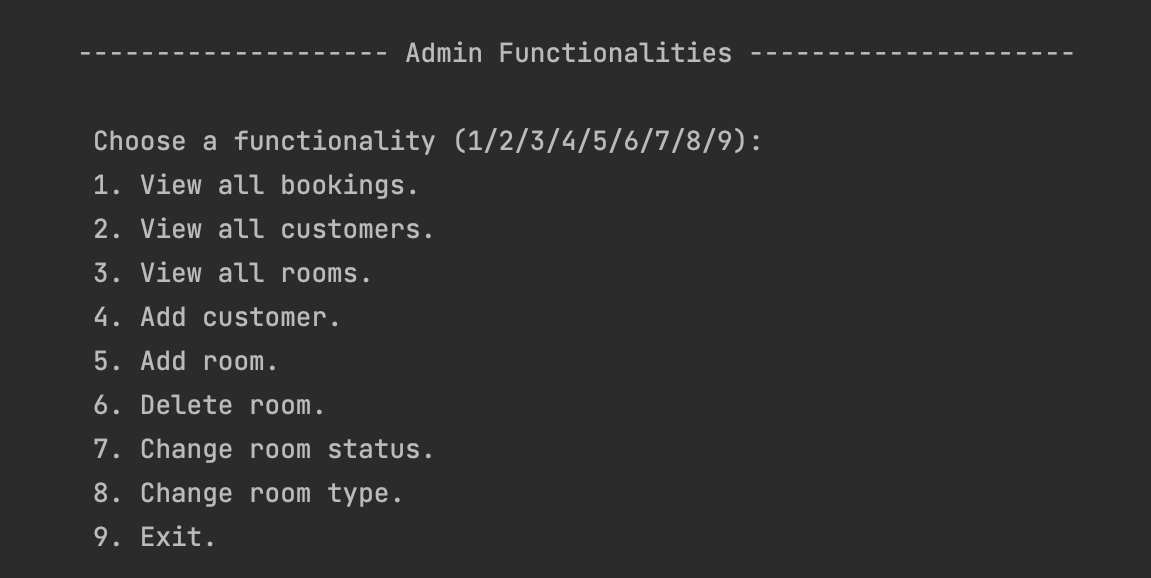
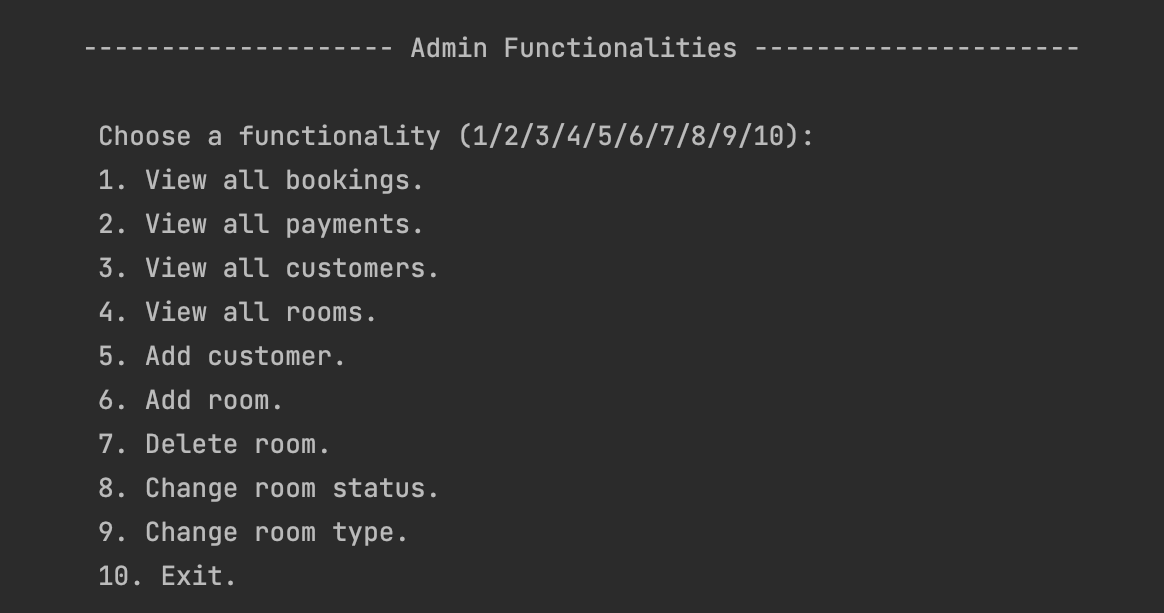
readme + toString  modificari

diff --git a/src/service/AdminService.java b/src/service/AdminService.java
@@ -46,18 +46,19 @@ public class AdminService implements ServiceInterface {
     @Override
     public void showFunctionalities(User user) {
         int option = 0;
-        while (option != 9){
+        while (option != 10){
             System.out.println("\n\t-------------------- Admin Functionalities ---------------------\n");
-            System.out.println("\t Choose a functionality (1/2/3/4/5/6/7/8/9):");
+            System.out.println("\t Choose a functionality (1/2/3/4/5/6/7/8/9/10):");
             System.out.println("\t 1. View all bookings.");
-            System.out.println("\t 2. View all customers.");
-            System.out.println("\t 3. View all rooms.");
-            System.out.println("\t 4. Add customer.");
-            System.out.println("\t 5. Add room.");
-            System.out.println("\t 6. Delete room.");
-            System.out.println("\t 7. Change room status.");
-            System.out.println("\t 8. Change room type.");
-            System.out.println("\t 9. Exit.\n");
+            System.out.println("\t 2. View all payments.");
+            System.out.println("\t 3. View all customers.");
+            System.out.println("\t 4. View all rooms.");
+            System.out.println("\t 5. Add customer.");
+            System.out.println("\t 6. Add room.");
+            System.out.println("\t 7. Delete room.");
+            System.out.println("\t 8. Change room status.");
+            System.out.println("\t 9. Change room type.");
+            System.out.println("\t 10. Exit.\n");
 
             Scanner scanner = new Scanner(System.in);
             option = scanner.nextInt();
@@ -67,24 +68,27 @@ public class AdminService implements ServiceInterface {
                     ((Admin) user).viewAllBookings();
                     break;
                 case (2):
-                    ((Admin) user).viewAllCustomers();
+                    ((Admin) user).viewAllPayments();
                     break;
                 case (3):
-                    ((Admin) user).viewAllRooms();
+                    ((Admin) user).viewAllCustomers();
                     break;
                 case (4):
-                    ((Admin) user).addCustomer();
+                    ((Admin) user).viewAllRooms();
                     break;
                 case (5):
-                    ((Admin) user).addRoom();
+                    ((Admin) user).addCustomer();
                     break;
                 case (6):
+                    ((Admin) user).addRoom();
+                    break;
+                case (7):
                     int roomNr;
                     System.out.println("\t Enter room number: ");
                     roomNr = scanner.nextInt();
                     ((Admin) user).deleteRoom(roomNr);
                     break;
-                case (7):
+                case (8):
                     System.out.println("\t Enter room number: ");
                     roomNr = scanner.nextInt();
                     int roomStatus;
@@ -98,7 +102,7 @@ public class AdminService implements ServiceInterface {
                         ((Admin) user).changeRoomStatus(roomNr, RoomStatus.AVAILABLE);
                     }
                     break;
-                case (8):
+                case (9):
                     System.out.println("\t Enter room number: ");
                     roomNr = scanner.nextInt();
                     int roomType;

diff --git a/src/entity/user/Customer.java b/src/entity/user/Customer.java
@@ -21,8 +21,8 @@ public class Customer extends User  {
     private UserDocument userDocument;
     private String address;
     private String telephone;
-    Set<Booking> bookingSet;
-    Set<Payment> paymentSet;
+    private Set<Booking> bookingSet;
+    private Set<Payment> paymentSet;
 
     public Customer(String firstName, String lastName, UserDocument userDocument, String address, String telephone, String username, String password, String email) {
         super(count, firstName, lastName, username, password, email);
@@ -289,7 +289,7 @@ public class Customer extends User  {
 
     @Override
     public String toString() {
-        StringBuilder customer = new StringBuilder("\n\t ==> Customer " +
+        StringBuilder customer = new StringBuilder("\n\n\t ==> Customer " +
                 this.getId() + ": " + this.getFullName() + '\n' +
                 "\t\tuserDocument: " + userDocument + '\n' +
                 "\t\taddress: " + address + '\n' +
@@ -300,16 +300,16 @@ public class Customer extends User  {
 
 
         if (!bookingSet.isEmpty()) {
-            customer.append("\t\tBookingSet: ");
+            customer.append("\t\tBookings: ");
             for (Booking booking : bookingSet) {
-                customer.append("\n\t\t\t=> ").append(booking);
+                customer.append(booking).append("\n");
             }
         } else{
             customer.append("\t\tBookings: []\n");
         }
 
         if (!paymentSet.isEmpty()) {
-            customer.append("\n\t\tPaymentSet: ");
+            customer.append("\n\t\tPayments: ");
             for (Payment payment : paymentSet) {
                 customer.append("\n\t\t\t=> ").append(payment);
             }

diff --git a/src/Main.java b/src/Main.java
@@ -71,8 +71,8 @@ public class Main {
         payment1.setPaymentMethod(PaymentMethod.CARD);
         payment1.setPaymentStatus(PaymentStatus.PAID);
         payment1.setTime(LocalDateTime.now());
-        Customer customerX = booking1.getCustomer();
-        customerX.getPaymentSet().add(payment1);
+        hotel.getPaymentList().add(payment1);
+        customer1.getPaymentSet().add(payment1);
 
         Set<Room> roomSet2 = new HashSet<>();
         roomSet2.add(room2);
@@ -80,9 +80,12 @@ public class Main {
         room2.setRoomStatus(RoomStatus.UNAVAILABLE);
         hotel.getBookingList().add(booking2);
         customer1.getBookingSet().add(booking2);
+        Payment payment2 = new Payment(2, booking2);
+        hotel.getPaymentList().add(payment2);
+        customer1.getPaymentSet().add(payment2);
 
         Set<Room> roomSet3 = new HashSet<>();
-        roomSet2.add(room3);
+        roomSet3.add(room3);
         Booking booking3 = new Booking(customer2, roomSet3, LocalDate.of(2022, 5, 10), LocalDate.of(2022, 5, 12));
         room3.setRoomStatus(RoomStatus.UNAVAILABLE);
         hotel.getBookingList().add(booking3);
@@ -94,6 +97,7 @@ public class Main {
         payment3.setTime(LocalDateTime.now());
         Customer customerY = booking3.getCustomer();
         customerY.getPaymentSet().add(payment3);
+        hotel.getPaymentList().add(payment3);
 
 //     Cele de mai sus sunt date hardcodate
 

diff --git a/src/entity/booking/Booking.java b/src/entity/booking/Booking.java
@@ -83,14 +83,23 @@ public class Booking {
 
     @Override
     public String toString() {
-        return "Booking{" +
-                "id=" + id +
-//                ", customer=" + customer +
-                ", roomSet=" + roomSet +
-                ", arrival=" + arrival +
-                ", departure=" + departure +
-                ", payment=" + payment +
-                '}';
+        StringBuilder booking = new StringBuilder("\n\t\t\tBooking " +
+                id + ": \n" +
+                "\t\t\t\tCustomer id: " + this.getCustomer().getId() + '\n' +
+                "\t\t\t\tArrival date: " + arrival + '\n' +
+                "\t\t\t\tDeparture date: " + departure + '\n' +
+                "\t\t\t\tPayment: " + payment + '\n');
+
+
+        if (!roomSet.isEmpty()) {
+            booking.append("\t\t\t\tRooms: ");
+            for (Room room : roomSet) {
+                booking.append("\n\t\t\t\t\t=> ").append(room);
+            }
+        } else{
+            booking.append("\t\t\t\tRooms: []\n");
+        }
+        return booking.toString();
     }
 }
 

diff --git a/src/entity/room/StandardRoom.java b/src/entity/room/StandardRoom.java
@@ -22,7 +22,7 @@ public class StandardRoom extends Room {
 
     @Override
     public String toString() {
-        return "\nStandardRoom{" +
+        return "StandardRoom{" +
                 "roomNumber=" + roomNumber +
                 ", roomStatus=" + roomStatus +
                 ", roomType=" + roomType +

diff --git a/src/entity/room/PremiumRoom.java b/src/entity/room/PremiumRoom.java
@@ -22,7 +22,7 @@ public class PremiumRoom extends Room{
 
     @Override
     public String toString() {
-        return "\nPremiumRoom{" +
+        return "PremiumRoom{" +
                 "roomNumber=" + roomNumber +
                 ", roomStatus=" + roomStatus +
                 ", roomType=" + roomType +

diff --git a/src/entity/user/Admin.java b/src/entity/user/Admin.java
@@ -121,6 +121,8 @@ public class Admin extends User {
         System.out.println(hotel.getRoomList());
     }
 
+    public void viewAllPayments(){ System.out.println(hotel.getPaymentList()); }
+
     public void viewAllCustomers(){
         System.out.println(hotel.getCustomerList());
     }

diff --git a/README.md b/README.md
@@ -1,7 +1,7 @@
 # :bellhop_bell: Hotel Management System
 
 ## About
-This project implements the basics necessities of a real hotel, managing customers and rooms.
+This project implements the basics necessities of a real hotel, managing customers, rooms, bookings, payments and reviews.
 
 ### Functionalities:
 
@@ -16,11 +16,12 @@ This project implements the basics necessities of a real hotel, managing custome
 |   addCustomer    |    viewProfile    |
 |     addRoom      | viewHotelServices |
 | viewAllBookings  |   createBooking   |
-|   viewAllRooms   |    payBooking     |
-| viewAllCustomers |  changePassword   |
-| changeRoomStatus |  changeUsername   |
-|  changeRoomType  |    reviewHotel    |
-|    deleteRoom    |     checkOut      |
+| viewAllPayments  |    payBooking     | 
+|   viewAllRooms   |  changePassword   | 
+| viewAllCustomers |  changeUsername   |
+| changeRoomStatus |    reviewHotel    |
+|  changeRoomType  |     checkOut      |
+|    deleteRoom    |                   |
 
 #### LogIn
 ![](/img/login.png)
